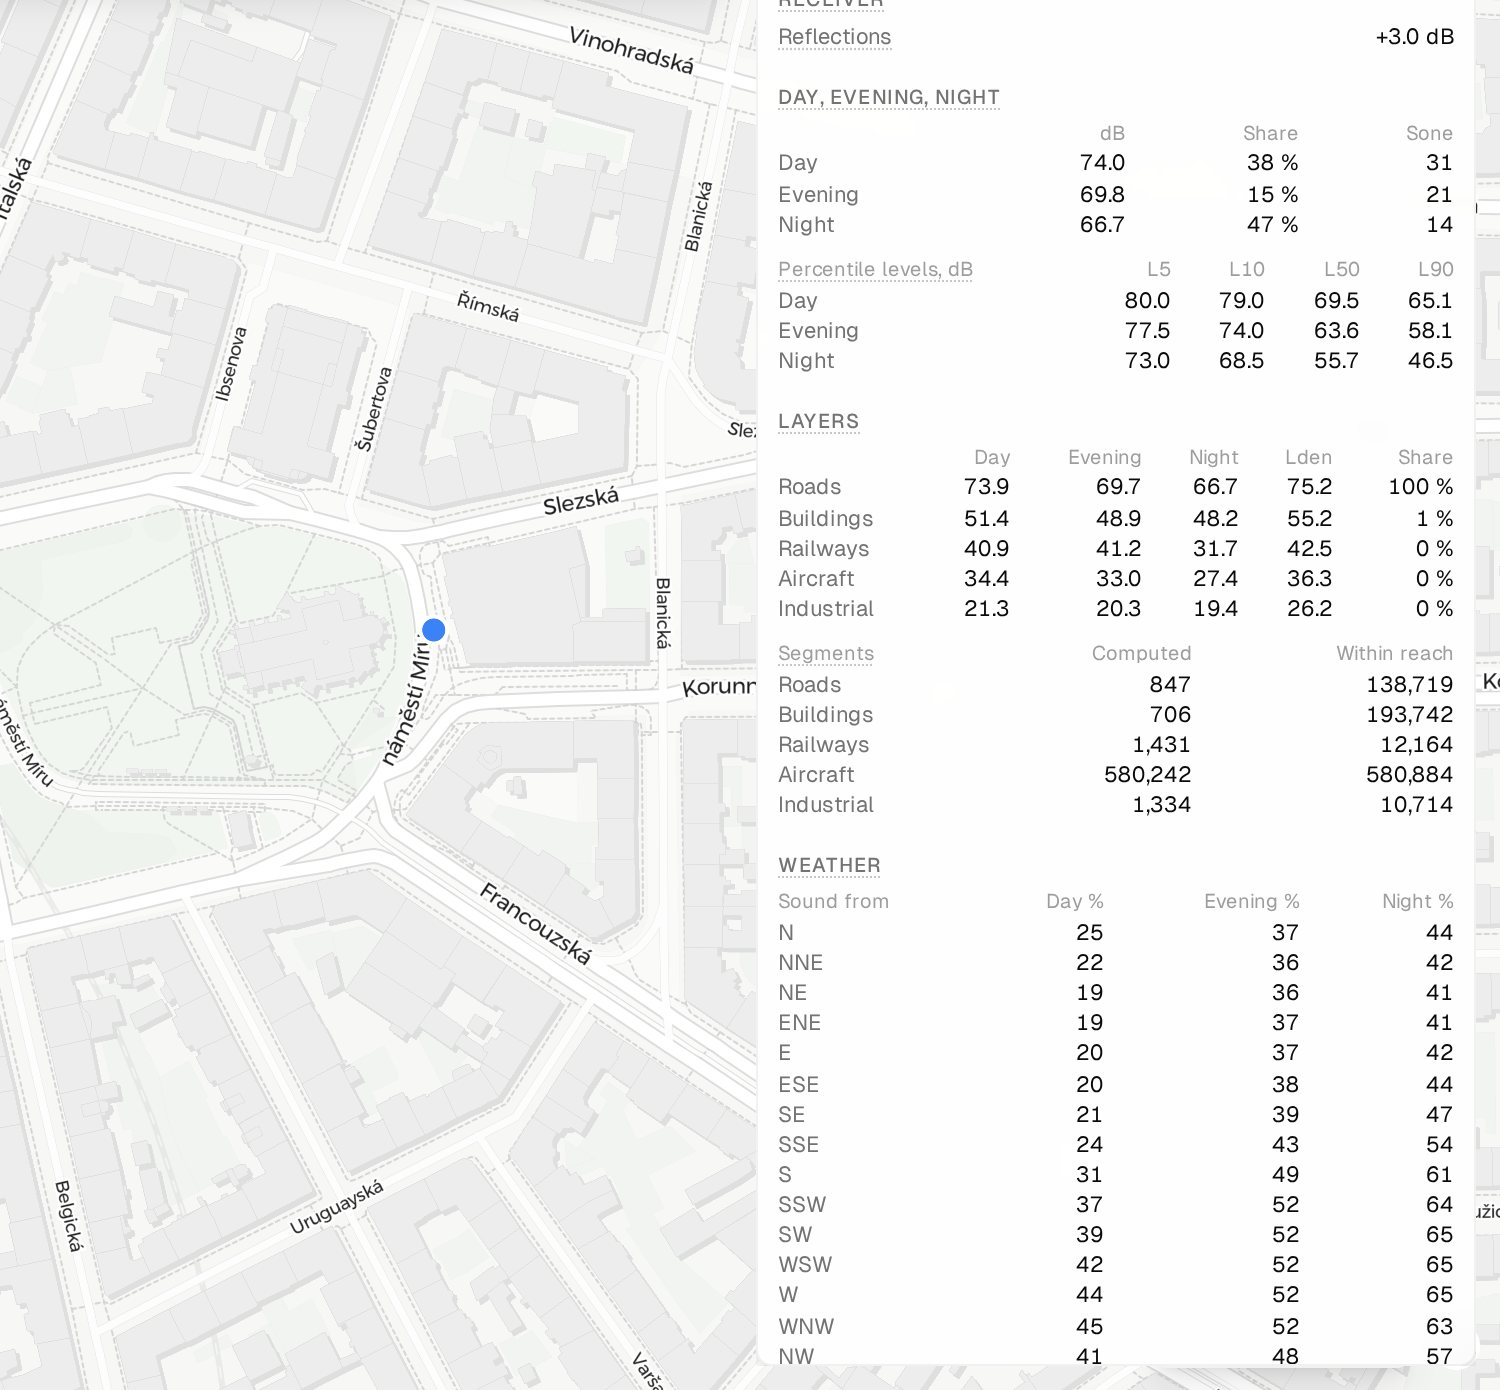
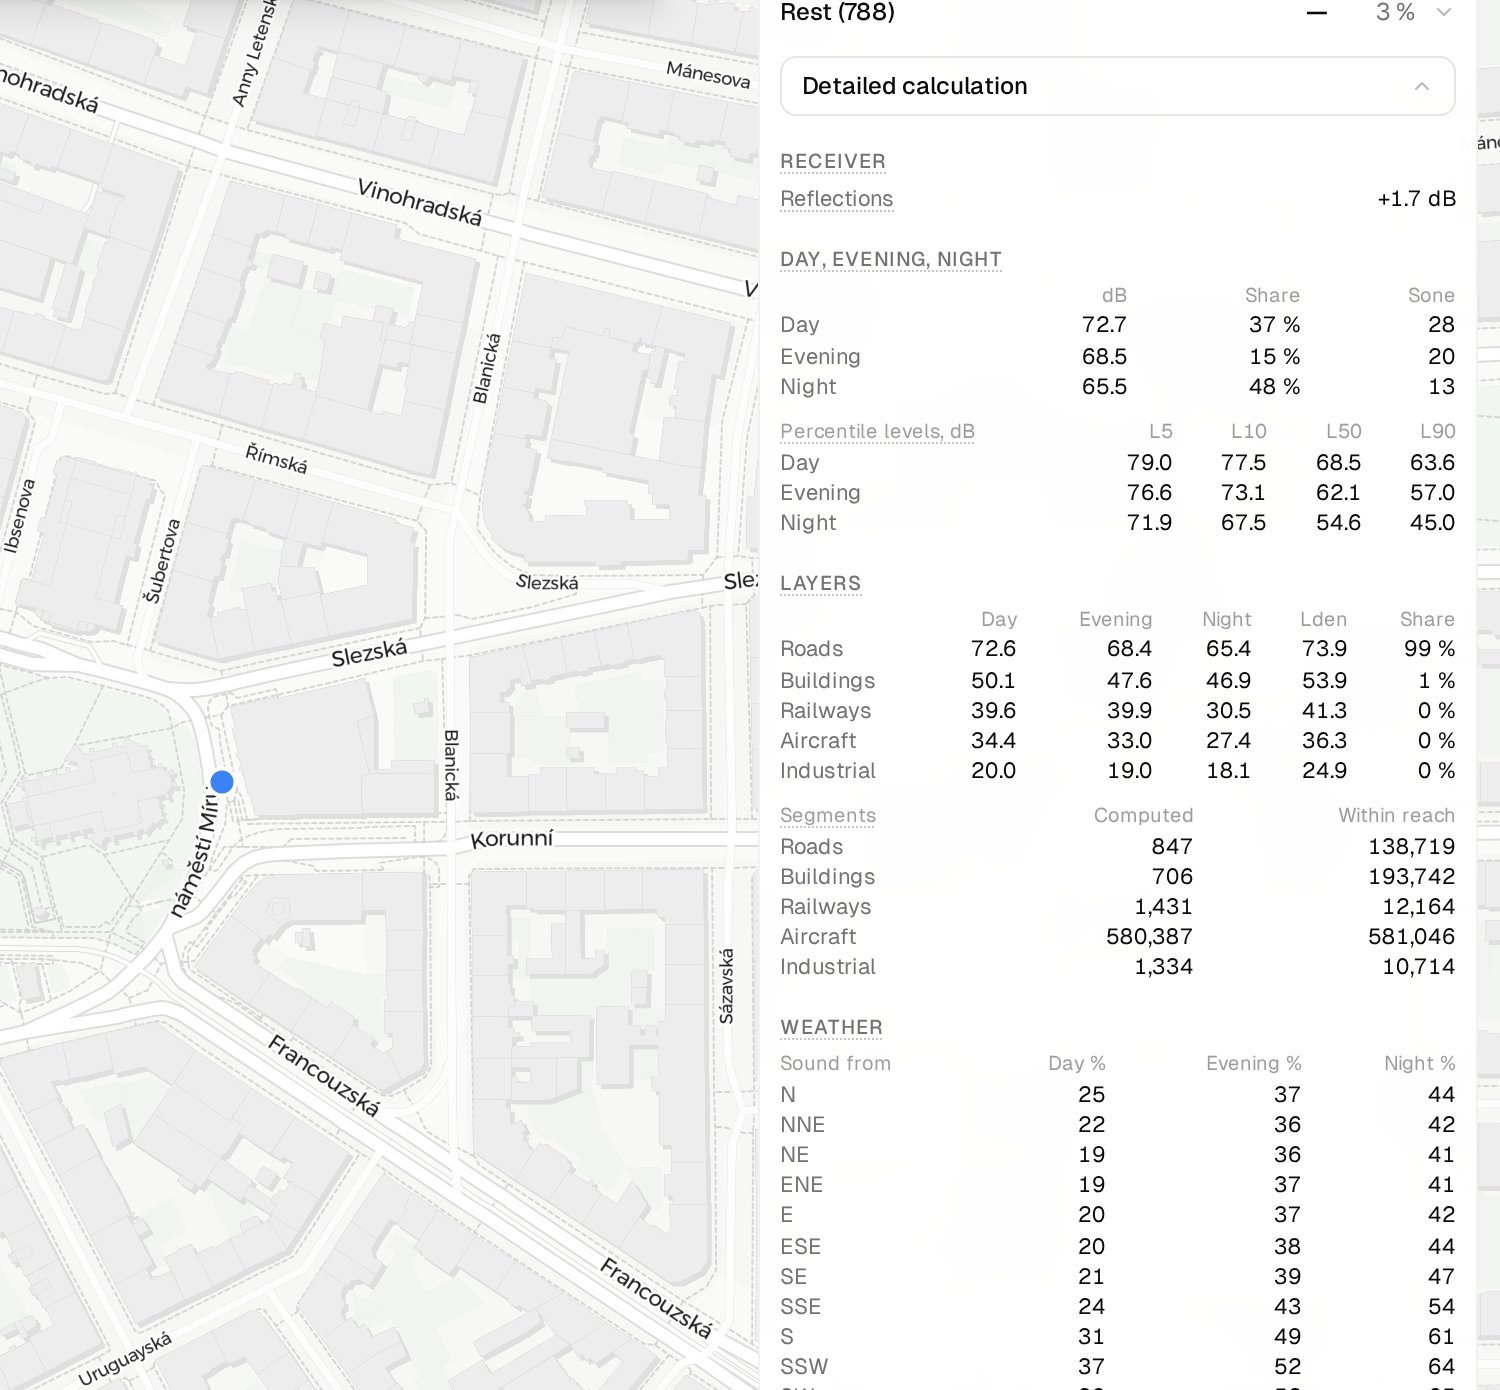
About: the numbers that waited for r071
- validation.md: every figure from r071's ruler (8,024 stations): Poland +0.4 dB, half within 3.0;
  Paris near its airports -0.5 / 1.5, its streets -3.2 / 3.2; Barcelona -1.6 / 4.2; Madrid
  +2.4 / 3.4; Dublin -4.4 / 5.5; German railways half within 1.7 and 3.3; Prague airport's night
  half within 2.0; Accra -9.6; Silenzi in Quota 13.0 dB above the model.
- gb.md: the M25 at junction 17 reads 5.8 dB above the official map (63.1 against 57.2 dB Lden),
  the cutting and the wall now screening the motorway by 10 to 15 dB, where it read about 13 dB
  too loud without them.
- data-preparation.md: a box reads back within 0.25 dB of its flights summed one by one, each
  period too (the aircraft check at 27 points over the year: Lden -0.04 to +0.23 dB, Brdy the
  most); central Prague's three tiles 49,172 road pieces, 7,885 railway pieces, 3,622 industrial
  points and 74,377 building points. The world's size and the kinds' table hold.
- africa: aircraft understated by 5 to 23 dB near the four airports, Lagos the most (2 km past its
  longest runway 46.9 and 45.3 dB against Prague's 65.1 and 66.5), as data-preparation.md says.
- noise-at-a-point.md's two screenshots retaken on r071: 27 sone, 73.9 dB, reflections +1.7 dB.

Claude-Session: https://claude.ai/code/session_0143MFC8Quza3ab2CJaQ1b3p

diff --git a/frontend/src/about/validation.md b/frontend/src/about/validation.md
@@ -3,9 +3,9 @@ title: Validation
 intro: How close the model comes to real measurements, network by network.
 ---
 
-At 5,351 road monitoring points in Poland (6,616 measurements) the model's median is 0.3 dB above
+At 5,351 road monitoring points in Poland (6,616 measurements) the model's median is 0.4 dB above
 the measurement, and half are within 3.0 dB. Around Minneapolis–St Paul airport half of 39
-microphones are within 1.1 dB. In Accra the model reads 9.7 dB below the measurements.
+microphones are within 1.1 dB. In Accra the model reads 9.6 dB below the measurements.
 
 Before a version goes live, the click is run at the microphones of the monitoring networks and
 research campaigns below and compared with what they measured. A gap is first traced to the input
@@ -19,17 +19,17 @@ version (October 2026):
 
 | Measurements | n | Median | Half within |
 |---|---:|---:|---:|
-| Paris near its airports, Bruitparif, Lden 2024 | 22 | −0.8 dB | 1.6 dB |
-| Paris streets, Ville de Paris (ODbL) by Bruitparif, Lden 2025 | 16 | −2.6 dB | 2.6 dB |
-| Barcelona, Ajuntament de Barcelona (CC BY 4.0), Lden 2025 | 154 | −1.7 dB | 4.9 dB |
-| Madrid, Ayuntamiento de Madrid (CC BY 4.0), Lden 2025 | 31 | +2.4 dB | 3.5 dB |
-| Dublin, Dublin City Council (CC BY), Lden 2025 | 14 | −4.5 dB | 5.7 dB |
-| Poland's roads, Chief Inspectorate of Environmental Protection ([dane.gov.pl](https://dane.gov.pl/pl/dataset/1404), CC BY 4.0), 06–22 h, 2018–2024 | 6,616 | +0.3 dB | 3.0 dB |
-| German railways, Eisenbahn-Bundesamt, 06–22 and 22–06 h, 2023 | 19 | −0.4 and −3.2 dB | 0.9 and 3.3 dB |
-| Prague airport, Letiště Praha, aircraft, 06–22 and 22–06 h, January 2026 | 14 and 13 | −0.3 and +1.0 dB | 1.8 and 2.1 dB |
+| Paris near its airports, Bruitparif, Lden 2024 | 22 | −0.5 dB | 1.5 dB |
+| Paris streets, Ville de Paris (ODbL) by Bruitparif, Lden 2025 | 16 | −3.2 dB | 3.2 dB |
+| Barcelona, Ajuntament de Barcelona (CC BY 4.0), Lden 2025 | 154 | −1.6 dB | 4.2 dB |
+| Madrid, Ayuntamiento de Madrid (CC BY 4.0), Lden 2025 | 31 | +2.4 dB | 3.4 dB |
+| Dublin, Dublin City Council (CC BY), Lden 2025 | 14 | −4.4 dB | 5.5 dB |
+| Poland's roads, Chief Inspectorate of Environmental Protection ([dane.gov.pl](https://dane.gov.pl/pl/dataset/1404), CC BY 4.0), 06–22 h, 2018–2024 | 6,616 | +0.4 dB | 3.0 dB |
+| German railways, Eisenbahn-Bundesamt, 06–22 and 22–06 h, 2023 | 19 | −0.4 and −3.2 dB | 1.7 and 3.3 dB |
+| Prague airport, Letiště Praha, aircraft, 06–22 and 22–06 h, January 2026 | 14 and 13 | −0.3 and +1.0 dB | 1.8 and 2.0 dB |
 | Minneapolis–St Paul airport, Metropolitan Airports Commission (MACNOMS), aircraft, DNL 2025–26 | 39 | +0.2 dB | 1.1 dB |
 | Zurich airport, Flughafen Zürich, aircraft, 06–22 h, 2024 | 4 | −5.9 dB | 5.9 dB |
-| Accra, Clark et al. 2021 ([Zenodo](https://zenodo.org/records/11223686), CC BY 4.0), 24 h, 2019–2020 | 146 | −9.7 dB | 9.7 dB |
+| Accra, Clark et al. 2021 ([Zenodo](https://zenodo.org/records/11223686), CC BY 4.0), 24 h, 2019–2020 | 146 | −9.6 dB | 9.6 dB |
 
 The rail emission takes its typical train from the same German monitoring report, so that row is
 not a fully independent test.
@@ -39,5 +39,5 @@ not a fully independent test.
 Nearly all of these stand in loud places; the quiet places the map is for are hardly checked yet.
 The only set so far, Silenzi in Quota's 73 recordings of a few daytime minutes in quiet mountains
 ([Zenodo](https://zenodo.org/records/20719737), CC BY 4.0), measures everything heard, nature
-included, and reads 13.1 dB above the model, as it should; but at 14 of the points the model is
+included, and reads 13.0 dB above the model, as it should; but at 14 of the points the model is
 louder than everything measured, at 13 of them because of a road.

diff --git a/frontend/src/about/data-preparation.md b/frontend/src/about/data-preparation.md
@@ -151,7 +151,7 @@ flight number, else as a generic jet.
 The year is summed into boxes of airspace: a cell of the map's grid and a slab of height above the
 highest ground around it. A box holds its flights' sound energy by day, evening and night at the
 ten distances of the noise tables, and its two loudest flights for the click's list; a box's Lden
-reads back within 0.2 dB of its flights summed one by one, a period's within 0.3 dB. Where no
+reads back within 0.25 dB of its flights summed one by one, and so does each period. Where no
 receiver is near, low flights are missing: near nine of 59 large airports (Beijing, Shanghai
 Pudong, Cairo, Casablanca, Riyadh, Tehran, Accra, Moscow Sheremetyevo, Lagos) the map reads 5 to
 23 dB too quiet.
@@ -328,8 +328,8 @@ altitude at its two ends.
 | Ships | a point every 250 m over a cell of vessel density | a cell |
 | Airports | a straight stretch of a runway or taxiway, at most 250 m | an airport's ground operations, in the aircraft row |
 
-Three tiles of central Prague hold 46,543 road pieces, half of them shorter than 21 m and the
-longest 250 m; 6,977 railway pieces; 2,938 industrial points and 74,149 points of the buildings
+Three tiles of central Prague hold 49,172 road pieces, half of them shorter than 21 m and the
+longest 250 m; 7,885 railway pieces; 3,622 industrial points and 74,377 points of the buildings
 layer. Flights are not pieces: they are the boxes described under Aircraft.
 
 ## In the code

diff --git a/frontend/src/about/data-sources/europe/gb.md b/frontend/src/about/data-sources/europe/gb.md
@@ -24,7 +24,7 @@ Freight comes from the class defaults, scaled to the country's goods train-kilom
 
 ## Checked against
 
-Official English noise map, 120 m from the M25: the model was about 13 dB too loud because a cutting and a noise wall were missing from the data. Details under [how we check it](/about/validation).
+Official English noise map, 120 m from the M25 at junction 17: the model reads 5.8 dB above it (63.1 against 57.2 dB Lden). The cutting and the noise wall, missing from the data when it read about 13 dB too loud, now screen the motorway by 10 to 15 dB. Details under [how we check it](/about/validation).
 
 ## Buildings and terrain
 

diff --git a/frontend/src/about/data-sources/africa/index.md b/frontend/src/about/data-sources/africa/index.md
@@ -49,7 +49,7 @@ Source: recorded flights. A year of [adsb.lol](https://adsb.lol/), September 202
 August 2026, with the flights only [ADSBExchange](https://www.adsbexchange.com/) received
 added from 11 sample days. Both rely on volunteer ground receivers, which are sparse in much
 of Africa; flights nobody records are missing, so aircraft noise is understated there —
-near Cairo, Casablanca, Accra and Lagos airports by 5 to 20 dB.
+near Cairo, Casablanca, Accra and Lagos airports by 5 to 23 dB, at Lagos the most.
 
 ## Ships
 
